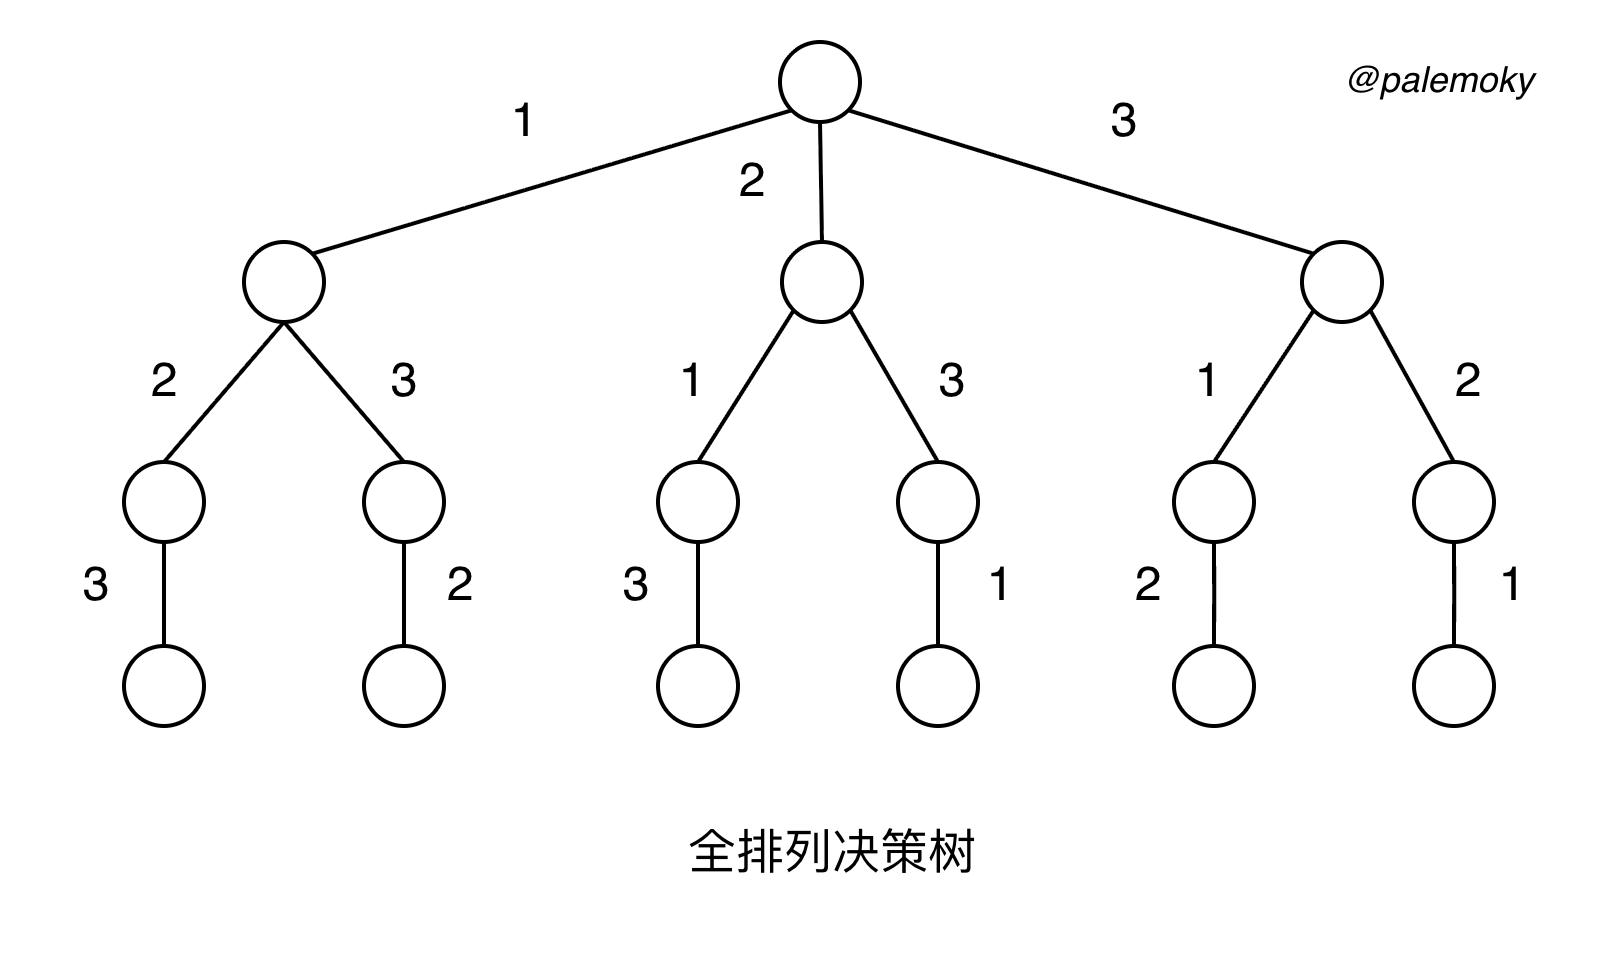
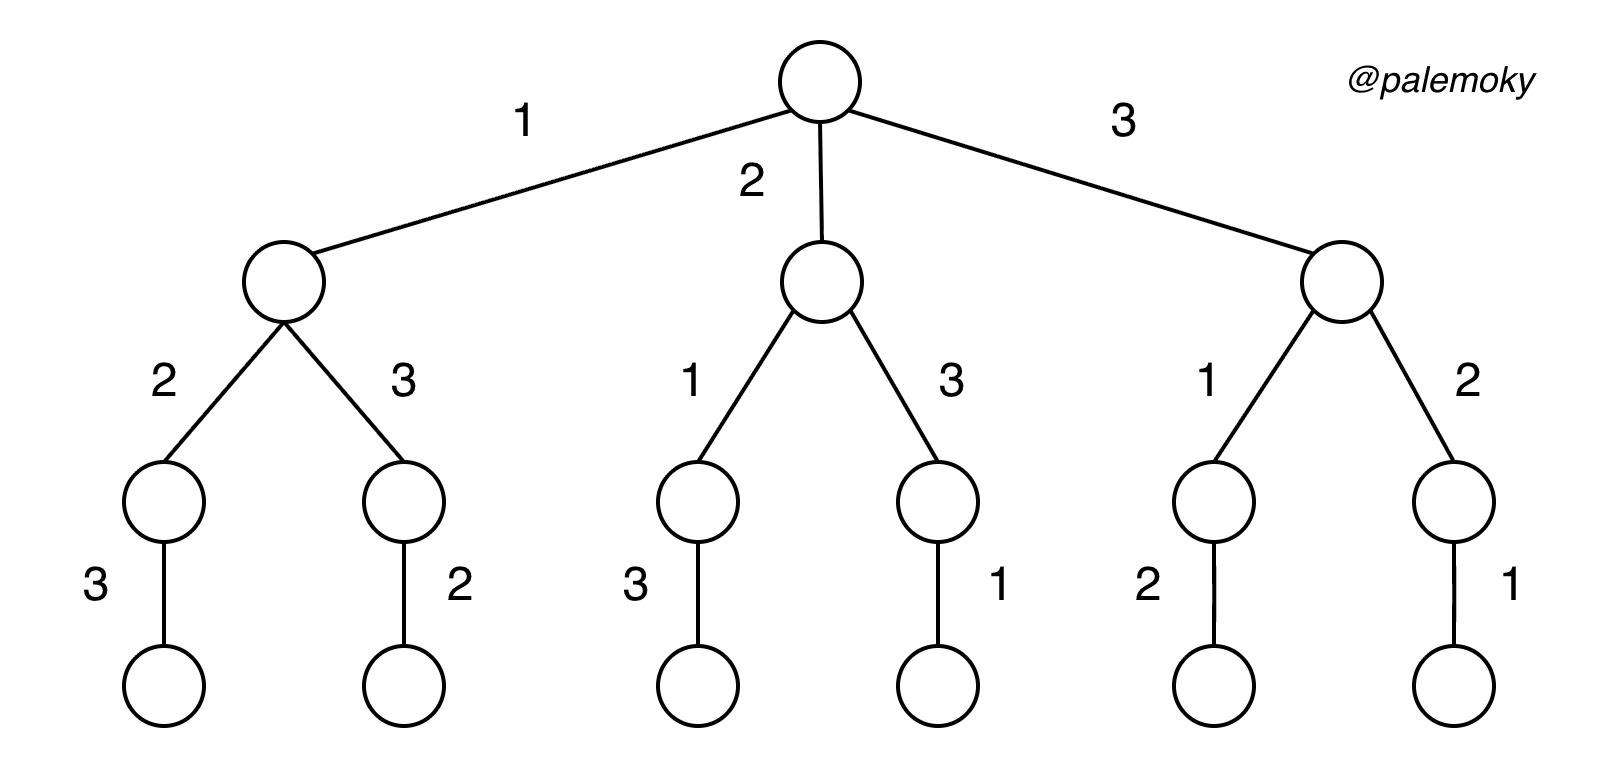
docs: update README.

diff --git a/core/algorithms/backtracking/README.md b/core/algorithms/backtracking/README.md
@@ -110,7 +110,9 @@ func traverse(root *TreeNode) {
 
 **示例：`[1,2,3]` 的全排列决策树**
 
-![全排列决策树](permutation_decision_tree.webp)
+<p align="center">
+    <img src="permutation_decision_tree.webp" alt="全排列决策树" width="60%" />
+</p>
 
 ## 其他经典问题
 
